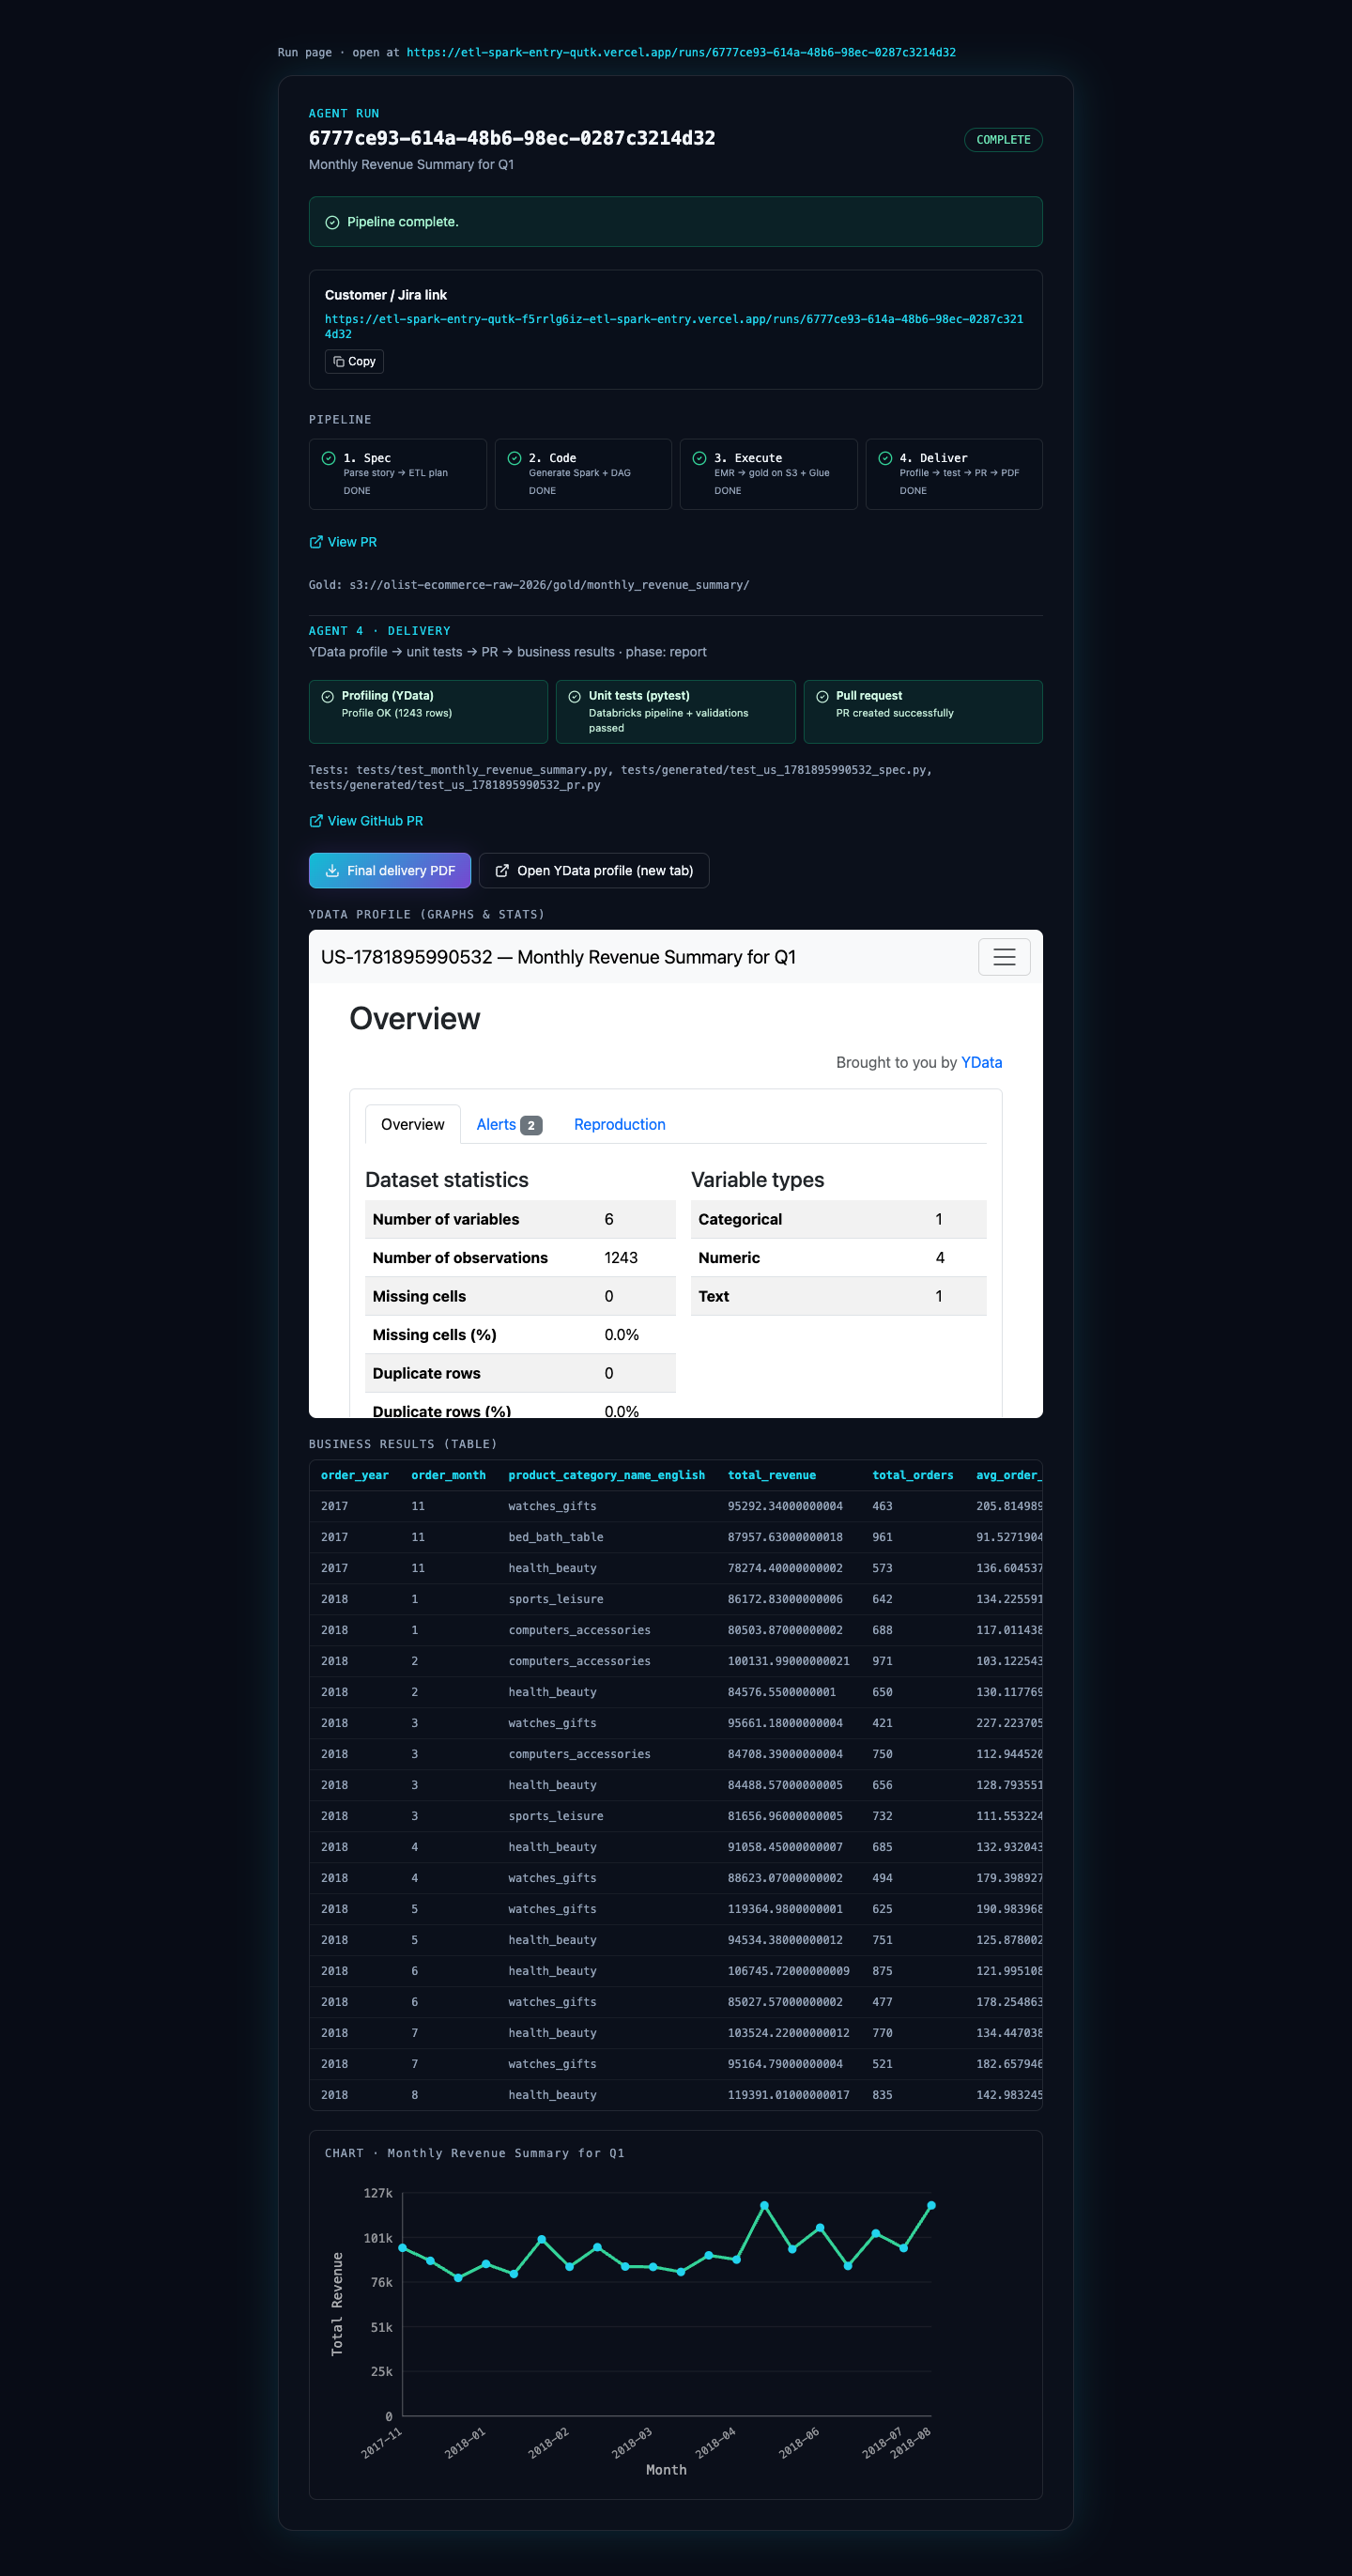
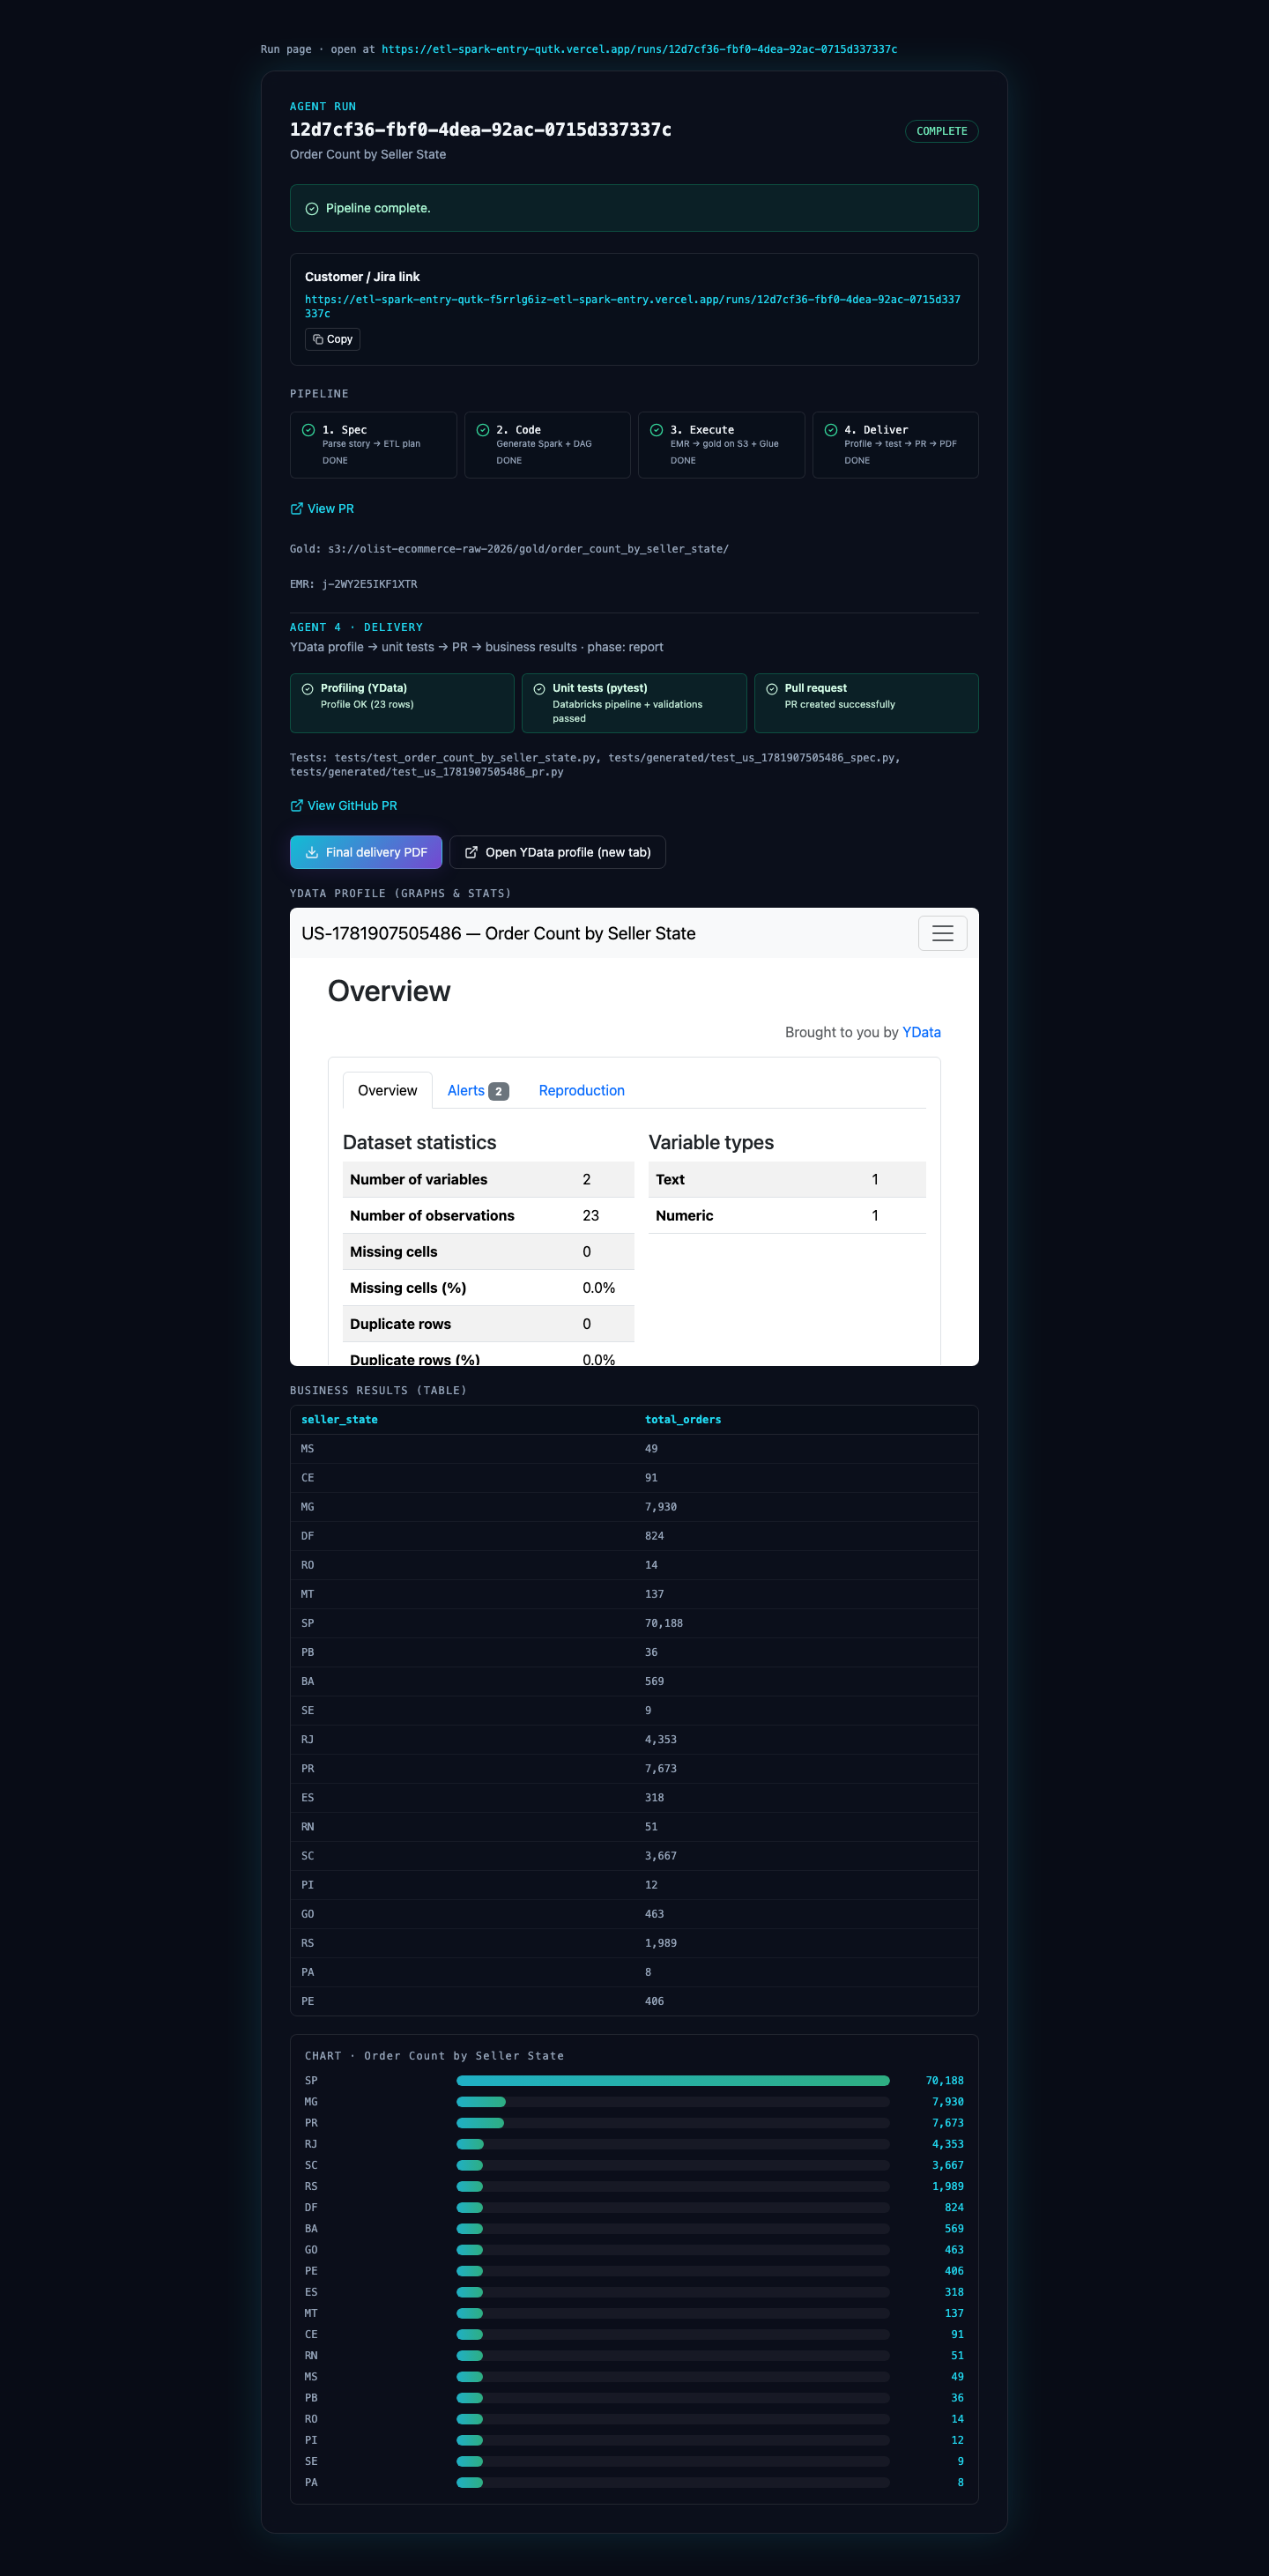
Update README screenshots with live intake and verified run page.
Replace stale run-tracker image with Order Count by Seller State (12d7cf36) and link both screenshots to the Vercel demo URLs.

diff --git a/README.md b/README.md
@@ -3,9 +3,7 @@
 An **agentic ETL pipeline** that turns natural-language user stories into production-style artifacts on AWS: structured specs, PySpark jobs, Airflow DAGs, GitHub PRs, gold tables on S3, validation, profiling, and a **Final delivery PDF** with story-aware charts.
 
 **Live demo (UI):** [etl-spark-entry-qutk.vercel.app/intake](https://etl-spark-entry-qutk.vercel.app/intake)  
-**Example completed runs:**
-- [Order Count by Seller State](https://etl-spark-entry-qutk.vercel.app/runs/12d7cf36-fbf0-4dea-92ac-0715d337337c) — EMR Spark, 23 gold rows, horizontal bar chart ([PR #46](https://github.com/MamtaVenugopal/etl-spark-entry/pull/46))
-- [Monthly Revenue Summary for Q1](https://etl-spark-entry-qutk.vercel.app/runs/6777ce93-614a-48b6-98ec-0287c3214d32) ([PR #40](https://github.com/MamtaVenugopal/etl-spark-entry/pull/40))
+**Verified completed run:** [Order Count by Seller State](https://etl-spark-entry-qutk.vercel.app/runs/12d7cf36-fbf0-4dea-92ac-0715d337337c) — EMR Spark, 23 gold rows, horizontal bar chart ([PR #46](https://github.com/MamtaVenugopal/etl-spark-entry/pull/46))  
 **Backend (agents + API):** [autonomous-etl-agent](https://github.com/MamtaVenugopal/autonomous-etl-agent)
 
 ---
@@ -16,13 +14,13 @@ An **agentic ETL pipeline** that turns natural-language user stories into produc
 
 Free-text → AI refine → structured YAML → ship to the agent pipeline.
 
-![Story intake UI](docs/images/intake.png)
+[![Story intake UI — open live demo](docs/images/intake.png)](https://etl-spark-entry-qutk.vercel.app/intake)
 
 ### Run tracker (complete run)
 
-Live pipeline status, gold-table preview, 3D delivery chart, YData profile link, and PDF download.
+[Order Count by Seller State](https://etl-spark-entry-qutk.vercel.app/runs/12d7cf36-fbf0-4dea-92ac-0715d337337c) — live pipeline status, gold-table preview, horizontal bar chart, YData profile, and Final delivery PDF.
 
-![Run tracker — complete delivery](docs/images/run-tracker-complete.png)
+[![Run tracker — Order Count by Seller State (complete)](docs/images/run-tracker-complete.png)](https://etl-spark-entry-qutk.vercel.app/runs/12d7cf36-fbf0-4dea-92ac-0715d337337c)
 
 ---
 